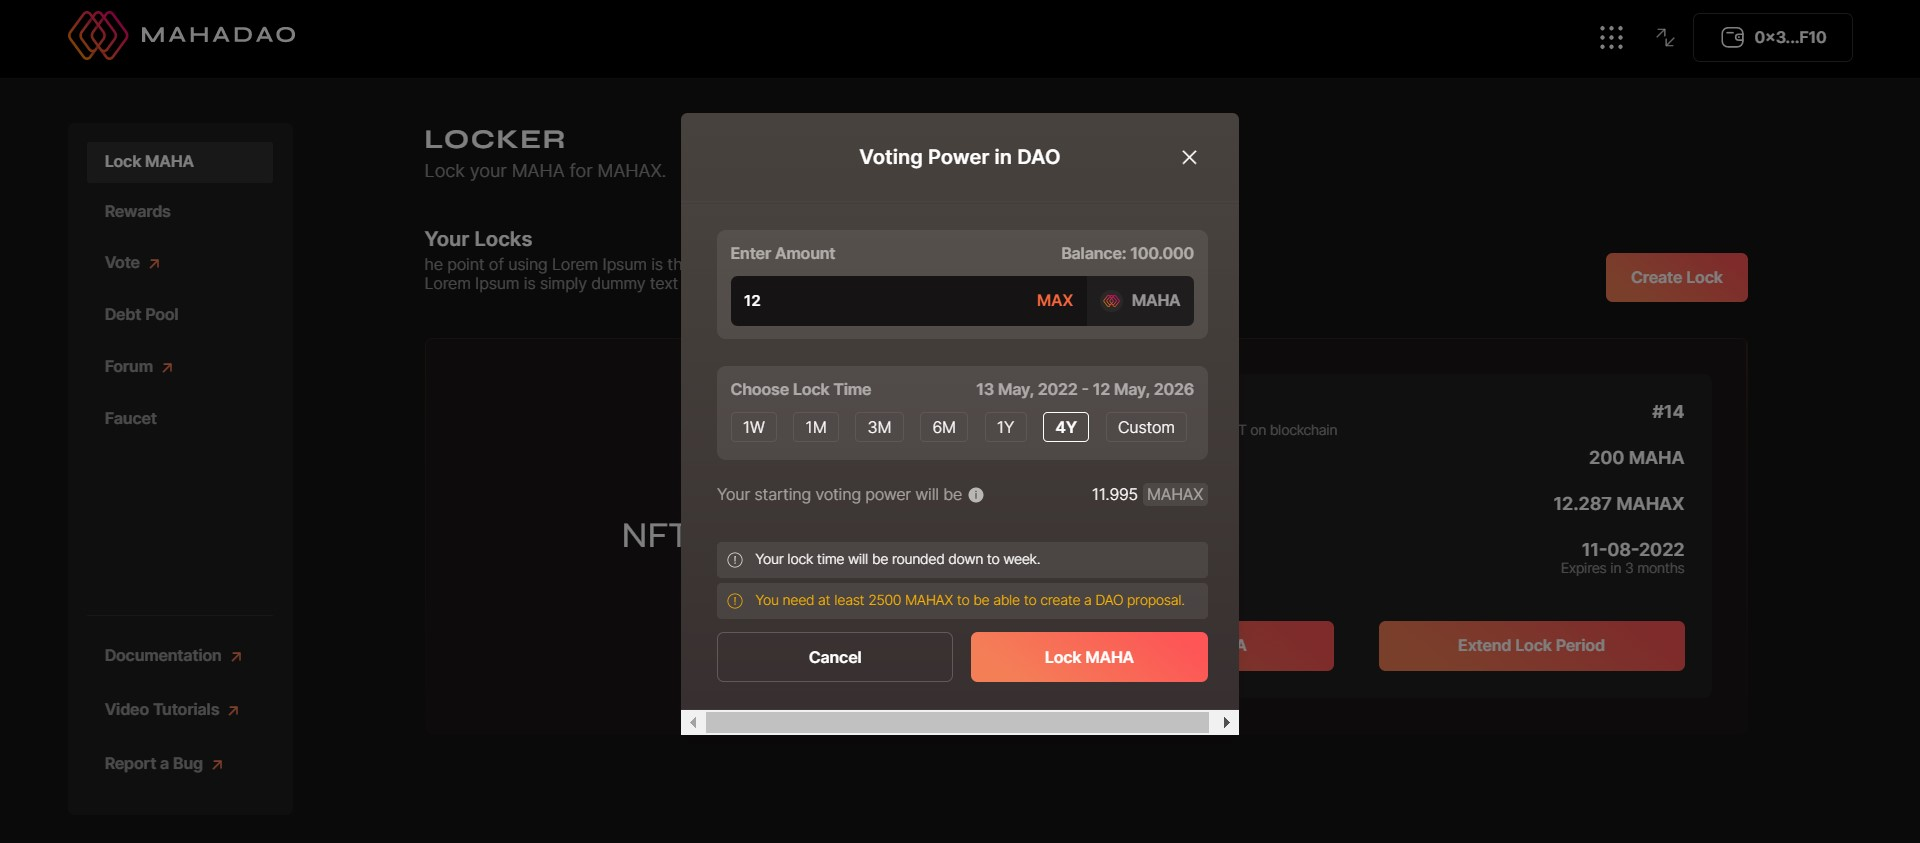
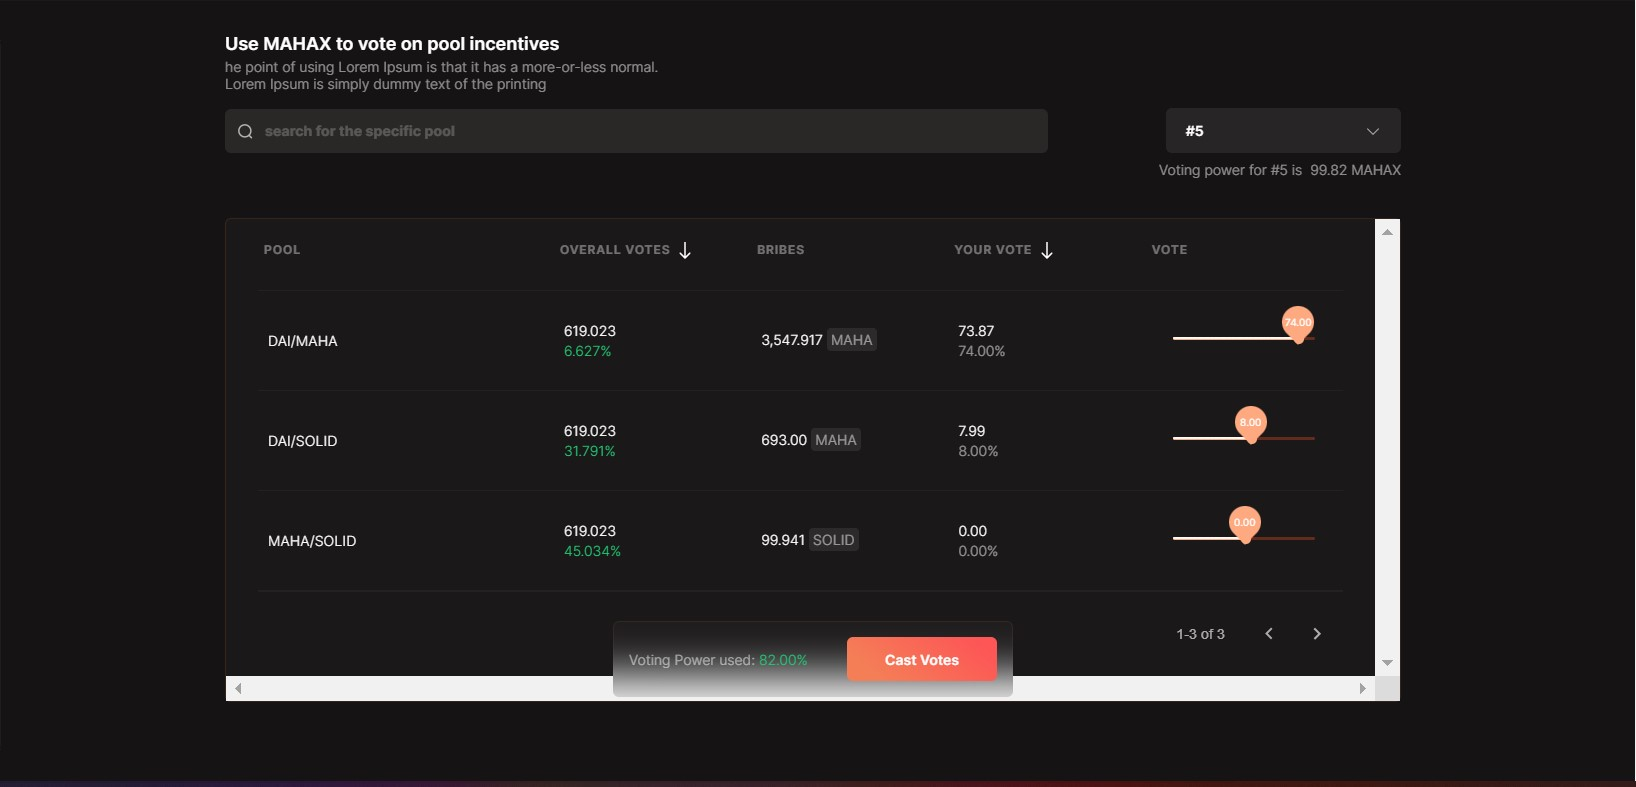
GitBook: [#70] No subject

diff --git a/inflation-vote.md b/inflation-vote.md
@@ -1,0 +1,47 @@
+---
+description: Use MAHAX to vote on pool incentives
+---
+
+# Inflation Vote
+
+Step 1: You need to visit [https://gov.mahadao.com/](https://gov.mahadao.com/) and navigate to the 'Inflation Vote' section on the left.&#x20;
+
+Step 2: You need to have MAHA to use it for voting in any of the pools.&#x20;
+
+Step 3: Once you navigate to the 'Inflation vote' section you will see different pools that are displayed along with a scroll bar.&#x20;
+
+![The pools that are available for users to cast their vote for; are displayed here.](<.gitbook/assets/1 (1).jpg>)
+
+
+
+**NOTE:**&#x20;
+
+* The scroll bar will help the user select the percentage amount that they want to use for voting for that specific pool. \
+
+* The user can select the percentage value for multiple pools at the same time. \
+
+* The user can vote any number of times they want. \
+
+* The user can vote for a specific pool as long as the voting rate is less than 100 percent.&#x20;
+
+Step 4: Once you select a pool; use the scroll bar to select the voting power percentage you want to cast.&#x20;
+
+![The voting power selected by the user is displayed alongside the Cast Votes button.](.gitbook/assets/2.jpg)
+
+
+
+Step 5: If the voting power is more than 100 percent the 'Cast Vote' button will not be highlighted. If it is less than 100 percent the 'Cast Vote' button will be highlighted.&#x20;
+
+![ When the voting power selected by the user is more than 100 percent the user will be warned about the same and will not be allowed to cast their vote. ](.gitbook/assets/3.jpg)
+
+
+
+Step 6: To cast the vote you just need to click on 'Cast vote'.&#x20;
+
+Step 7: You will get a confirmation box regarding the pools you have selected along with the voting percentage that you are casting for each pool.&#x20;
+
+![The confirm vote pop up will come up so that the user can verify the details and click on confirm. ](.gitbook/assets/4.jpg)
+
+
+
+Step 8: You need to click on 'Confirm' and that completes the process of casting votes.&#x20;

diff --git a/governance/vesting/bribes.md b/governance/vesting/bribes.md
@@ -10,7 +10,7 @@ Step 1: You need to visit [https://gov.mahadao.com/](https://gov.mahadao.com/) a
 
 Step 2: You need to have MAHA to deposit into any of the pools.&#x20;
 
-![The user needs to select the pool they want to invest a bribe in. ](<../../.gitbook/assets/1 (1).jpg>)
+![The user needs to select the pool they want to invest a bribe in. ](<../../.gitbook/assets/1 (1) (1).jpg>)
 
 Step 3: Once you have selected the pool you want to make the bribe for you need to click on the deposit button.&#x20;
 
@@ -18,9 +18,9 @@ NOTE: The concept of the bribe works by the user depositing an amount larger tha
 
 Step 4: Once you have clicked on deposit; you need to input an amount more than the total bribe amount and click on deposit.&#x20;
 
-![The user needs to input an amount that they want to input as a bribe.](../../.gitbook/assets/3.jpg)
+![The user needs to input an amount that they want to input as a bribe.](<../../.gitbook/assets/3 (1).jpg>)
 
 Step 5: Once you click on the deposit and get a confirmation regarding the transaction; then the user has successfully completed the bribe process.&#x20;
 
-![The user will get a successful confirmation about the transaction.](../../.gitbook/assets/4.jpg)
+![The user will get a successful confirmation about the transaction.](<../../.gitbook/assets/4 (1).jpg>)
 

diff --git a/governance/vesting/how-to-operate-a-locker.md b/governance/vesting/how-to-operate-a-locker.md
@@ -17,7 +17,7 @@ Step 3: Once a user clicks on 'create lock'  they need to input an amount of MAH
 Step 4: After which the user needs to select the time period for which they want to lock the MAHA for. The time frame varies from one week to a maximum period of four years. The users  can also customize the time frame according to their requirements. \
 NOTE: The time frame cannot exceed for more than four years.&#x20;
 
-![Once the user has input the details to create a lock they need to click on lock MAHA.](../../.gitbook/assets/2.jpg)
+![Once the user has input the details to create a lock they need to click on lock MAHA.](<../../.gitbook/assets/2 (1).jpg>)
 
 
 
@@ -27,7 +27,7 @@ Step 6: Once you have approved the MAHA to be locked you will get a transaction 
 
 Step 7: Once you get a transaction approval regarding the MAHA being locked you have successfully opened a locker.&#x20;
 
-![The details about each locker opened by the user is displayed on the home page along with the NFT ID's assigned to each locker. ](<../../.gitbook/assets/3 (1).jpg>)
+![The details about each locker opened by the user is displayed on the home page along with the NFT ID's assigned to each locker. ](<../../.gitbook/assets/3 (1) (1).jpg>)
 
 
 

diff --git a/bribes.md b/bribes.md
@@ -18,9 +18,9 @@ NOTE: The concept of the bribe works by the user depositing an amount larger tha
 
 Step 4: Once you have clicked on deposit; you need to input an amount more than the total bribe amount and click on deposit.&#x20;
 
-![The user needs to input an amount that they want to input as a bribe.](.gitbook/assets/3.jpg)
+![The user needs to input an amount that they want to input as a bribe.](<.gitbook/assets/3 (1).jpg>)
 
 Step 5: Once you click on the deposit and get a confirmation regarding the transaction; then the user has successfully completed the bribe process.&#x20;
 
-![The user will get a successful confirmation about the transaction.](.gitbook/assets/4.jpg)
+![The user will get a successful confirmation about the transaction.](<.gitbook/assets/4 (1).jpg>)
 

diff --git a/SUMMARY.md b/SUMMARY.md
@@ -26,6 +26,7 @@
 ***
 
 * [Bribes](bribes.md)
+* [Inflation Vote](inflation-vote.md)
 
 ## Products
 
